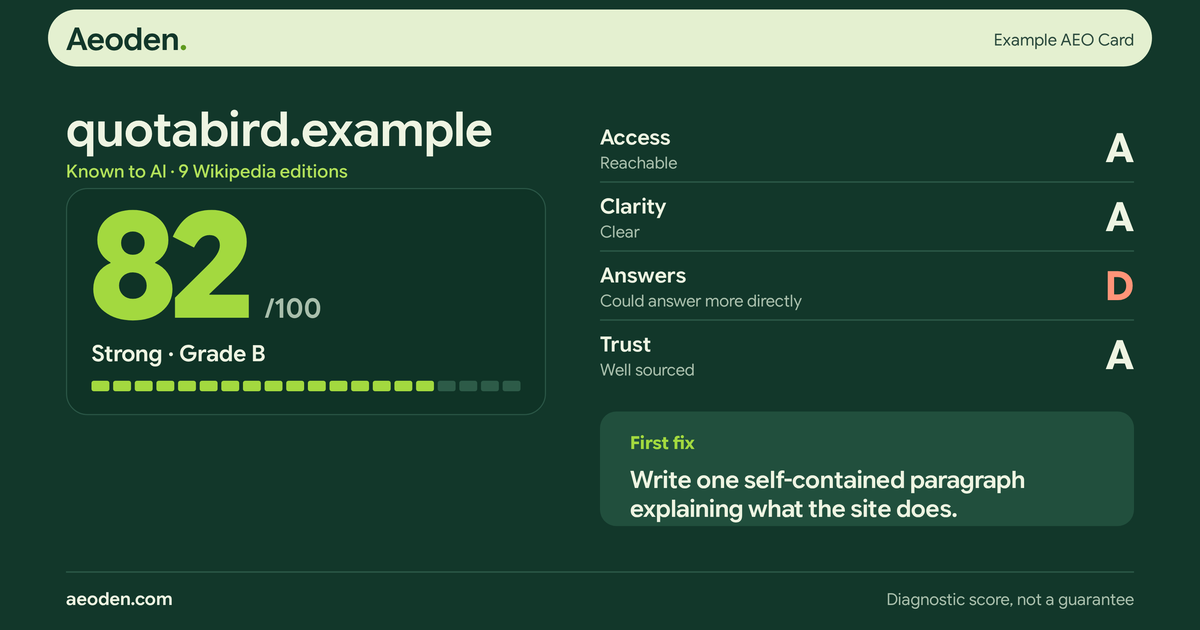
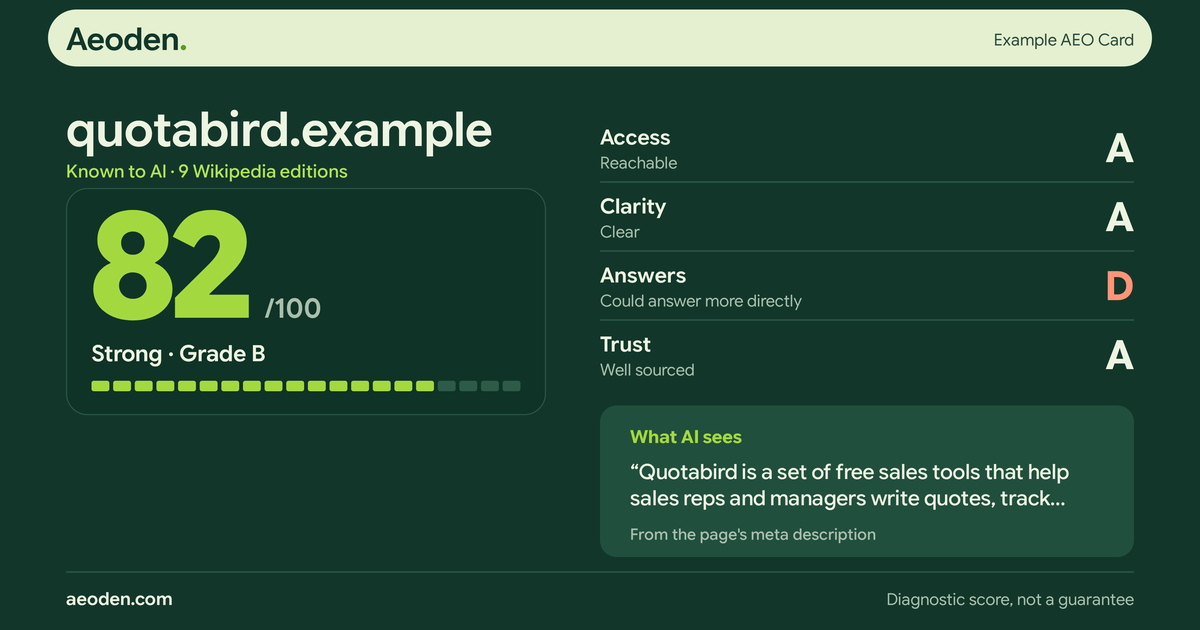
site text

Changed region(s): [[0.5242, 0.6333, 0.925, 0.8746]]

diff --git a/assets/js/card.js b/assets/js/card.js
@@ -92,7 +92,6 @@
   /* ---------------- On-page card ---------------- */
   function renderCardHTML(r) {
     if (r.blocked) return renderCardBlocked(r);
-    const fix = fixText(r);
     const rows = CATS.map(k => {
       const c = r.categories[k];
       return `<li class="acard__row${WEAK(c.grade) ? ' is-weak' : ''}"><span class="acard__k">${esc(c.name)}</span><span class="acard__l">${esc(c.label)}</span><span class="acard__g" aria-label="grade ${esc(c.grade)}">${esc(c.grade)}</span></li>`;
@@ -113,9 +112,13 @@
           <ul class="acard__rows" aria-label="Four checks">${rows}</ul>
         </div>
       </div>
-      <div class="acard__fix"><span class="acard__fixlbl">First fix</span><p>${esc(fix)}</p></div>
+      <div class="acard__fix acard__sees${r.whatAiSees.unclear ? ' is-unclear' : ''}"><span class="acard__fixlbl"><span class="nowrap">What AI sees</span>${r.whatAiSees.source && !r.whatAiSees.unclear ? `<span class="acard__src">${esc(r.whatAiSees.source)}</span>` : ''}</span><p title="${esc(seesText(r))}">${r.whatAiSees.unclear ? '' : '<q>'}${esc(seesText(r))}${r.whatAiSees.unclear ? '' : '</q>'}</p></div>
     </article>`;
   }
+
+  /* What AI sees: the page's own sentence (verbatim, hedged when unsure) and its source */
+  const seesText = r => r.whatAiSees.summary;
+  const seesSource = r => (r.whatAiSees.source && !r.whatAiSees.unclear ? `From the page's ${r.whatAiSees.source}` : '');
 
   /* AI familiarity, in plain words */
   function knownText(f) {
@@ -159,7 +162,7 @@
           <ul class="acard__rows" aria-label="Four checks">${rows}</ul>
         </div>
       </div>
-      <div class="acard__fix acard__fix--idle"><span class="acard__fixlbl">First fix</span><p>Appears here in about 30 seconds.</p></div>
+      <div class="acard__fix acard__fix--idle"><span class="acard__fixlbl">What AI sees</span><p>Appears here in about 30 seconds.</p></div>
     </article>`;
   }
 
@@ -249,19 +252,25 @@
       fixY = colTop + 4 * rowH + 30;
     } else if (size === 'portrait') {
       const ry = tileY + tileH + 34; P.push(Ln(M, ry, x1, ry));
-      drawRows(M, ry, W - 2 * M, 96, 58);
-      fixY = ry + 4 * 96 + 36;
+      drawRows(M, ry, W - 2 * M, 82, 52);
+      fixY = ry + 4 * 82 + 30;
     } else {
       drawRows(800, 180, x1 - 800, 92, 54);
-      fixX = 800; fixW = x1 - 800; fixY = 180 + 4 * 92 + 30;
+      fixX = 800; fixW = x1 - 800; fixY = 180 + 4 * 92 + 22;
     }
-    // first fix
-    const fSize = size === 'landscape' ? 32 : 38;
-    const fl = wrap(fixText(r), fSize, 600, fixW - 80, 2);
-    const fh = 76 + fl.length * fSize * 1.2;
+    // what AI sees: the page's own words, quoted, with their source — fitted to the space above the footer
+    const unclear = r.whatAiSees.unclear;
+    const quote = unclear ? seesText(r) : `\u201c${seesText(r)}\u201d`;
+    const src = seesSource(r);
+    const limit = H - 120;                                   // keep clear of the footer rule
+    let fSize = size === 'landscape' ? 28 : 32, maxL = 3, fl, fh;
+    const measureStrip = () => { fl = wrap(quote, fSize, 500, fixW - 80, maxL); fh = 82 + fl.length * fSize * 1.25 + (src ? 50 : 14); };
+    measureStrip();
+    while (fixY + fh > limit && (maxL > 2 || fSize > 22)) { if (maxL > 2) maxL--; else fSize -= 2; measureStrip(); }
     P.push(Rr(fixX, fixY, fixW, fh, 22, C.g50));
-    P.push(T(fixX + 40, fixY + 50, 'First fix', { size: 24, weight: 700, fill: C.g500 }));
-    fl.forEach((ln, i) => P.push(T(fixX + 40, fixY + 50 + 20 + fSize + i * fSize * 1.2, ln, { size: fSize, weight: 600, fill: C.ink, ls: -.4 })));
+    P.push(T(fixX + 40, fixY + 50, 'What AI sees', { size: 24, weight: 700, fill: C.g500 }));
+    fl.forEach((ln, i) => P.push(T(fixX + 40, fixY + 50 + 20 + fSize + i * fSize * 1.25, ln, { size: fSize, weight: 500, fill: C.ink, ls: -.3 })));
+    if (src) P.push(T(fixX + 40, fixY + 50 + 20 + fSize + (fl.length - 1) * fSize * 1.25 + 46, src, { size: 21, weight: 500, fill: C.ink3 }));
     // footer
     const fy = H - 64;
     P.push(Ln(M, fy - 44, x1, fy - 44));
@@ -272,7 +281,7 @@
 
   function summaryText(r) {
     const cats = CATS.map(k => `${r.categories[k].name} ${r.categories[k].grade}`).join(' · ');
-    return `AEO Card — ${r.domain}\nScore ${r.score}/100 · ${r.status} · Grade ${r.grade}\n${cats}\n\nFirst fix: ${fixText(r)}\nWhat AI sees: ${r.whatAiSees.summary}\n\nChecked with Aeoden (aeoden.com). Diagnostic score, not a guarantee.`;
+    return `AEO Card — ${r.domain}\nScore ${r.score}/100 · ${r.status} · Grade ${r.grade}\n${cats}\n\nWhat AI sees: ${r.whatAiSees.summary}\nFirst fix: ${fixText(r)}\n\nChecked with Aeoden (aeoden.com). Diagnostic score, not a guarantee.`;
   }
 
   window.AEOCardRender = { renderCardHTML, knownText, toneOf, renderCardLoading, renderCardError, buildCardSVG, summaryText, stateOf, scannedLabel, recordId, glyphSVG: markSVG, shareFix: fixText };

diff --git a/assets/css/main.css b/assets/css/main.css
@@ -556,3 +556,29 @@ body { font-family: var(--font); font-weight: 400; }
 .acard__gradeword { white-space: nowrap; }
 .acard__gradeword::before { content: ' · '; }
 @container (max-width: 559px) { .acard__gradeword { display: block; font-weight: 500; color: var(--ink-3); } .acard__gradeword::before { content: ''; } }
+
+/* ============ Card strip: What AI sees ============ */
+.acard__sees { flex-wrap: wrap; row-gap: .15rem; }
+.acard__sees p { font-weight: 500; }
+.acard__sees q { quotes: '\201C' '\201D'; }
+.acard__sees.is-unclear p { color: var(--ink-2); }
+.acard__src { flex-basis: 100%; font-size: var(--fs-xs); color: var(--ink-3); }
+@container (min-width: 560px) { .acard__sees .acard__src { padding-left: 0; } }
+@container (min-width: 560px) {
+  .acard__sees { display: grid; grid-template-columns: auto minmax(0, 1fr); column-gap: .85rem; align-items: baseline; }
+  .acard__sees .acard__src { grid-column: 2; }
+}
+
+/* Strip budget: source sits with the label; quote clamps (full sentence is in the report) */
+.acard__sees .acard__fixlbl { display: flex; flex-direction: column; gap: .1rem; }
+.acard__sees .acard__src { font-weight: 500; color: var(--ink-3); font-size: .72rem; }
+.acard__sees p { display: -webkit-box; -webkit-box-orient: vertical; -webkit-line-clamp: 2; overflow: hidden; }
+@container (max-width: 559px) {
+  .acard__sees .acard__fixlbl { flex-direction: row; gap: .4rem; align-items: baseline; }
+  .acard__sees .acard__src::before { content: '· '; }
+  .acard__sees p { -webkit-line-clamp: 3; }
+}
+/* The points row repeats what the card shows; drop it where height is scarce */
+@media (max-width: 560px), (max-height: 800px) { .points { display: none; } }
+@media (max-height: 800px) { .hero__rule { margin-top: .6rem; } .scan-form { margin-top: .9rem; } .card-stage { margin-top: .9rem; } }
+@media (max-width: 560px) { .hero { padding-top: .6rem; } .hero__rule { margin-top: .6rem; } .scan-form { margin-top: .9rem; } .card-stage { margin-top: .8rem; } .acard__known { margin-top: .15rem; } }
